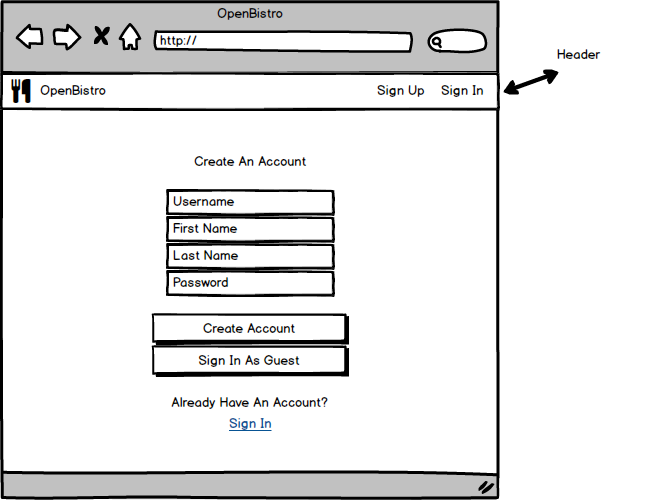
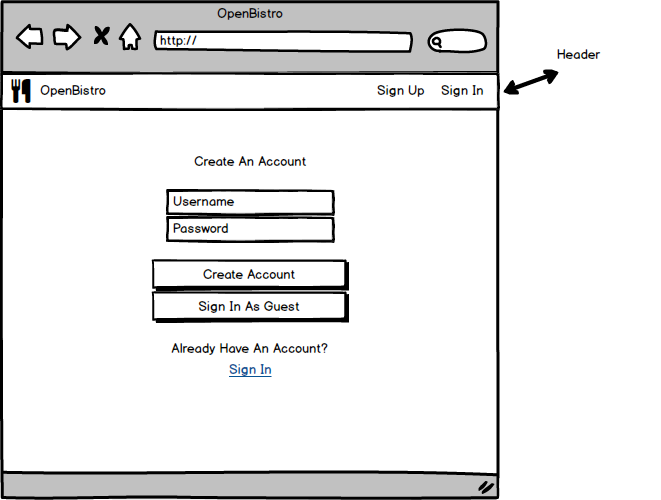
update development docs

Changed region(s): [[0.2118, 0.45, 0.5446, 0.87]]

diff --git a/docs/README.md b/docs/README.md
@@ -5,7 +5,7 @@
 [Trello link][trello]
 
 [heroku]: http://www.herokuapp.com
-[trello]: https://trello.com
+[trello]: https://trello.com/b/ELTsC2u0/openbistro
 
 ## Minimum Viable Product
 
@@ -30,11 +30,11 @@ sufficient CSS styling:
 * [DB schema][schema]
 * [Sample State][sample-state]
 
-[wireframes]: docs/wireframes
-[components]: docs/component-hierarchy.md
-[sample-state]: docs/sample-state.md
-[api-endpoints]: docs/api-endpoints.md
-[schema]: docs/schema.md
+[wireframes]: ../docs/wireframes
+[components]: ../docs/component-hierarchy.md
+[sample-state]: ../docs/sample-state.md
+[api-endpoints]: ../docs/api-endpoints.md
+[schema]: ../docs/schema.md
 
 ## Implementation Timeline
 
@@ -73,11 +73,14 @@ buttons.
 * Add rating and number of reviews to restaurant index page.
 * Add full review details to restaurant details page.
 
-### Phase 6: - Pagination / Infinite scroll for Restaurant Index (1 day)
+### Phase 6: - User Page with Reviews and Reservations (1.5 day)
 
-**Objective:** Add pagination or infinite scroll to restaurant index.
+**Objective:** User has access to a profile page.
+* Profile page contains upcoming reservations.
+* Profile page contains posted reviews.
 
 ### Bonus Features (TBD)
 - [ ] City highlights other than restaurants
+- [ ] Pagination or infinite scroll
 - [ ] Point system for bookings and site usage
 - [ ] Request user for review after reservation date has passed

diff --git a/docs/sample-state.md b/docs/sample-state.md
@@ -36,22 +36,22 @@
       zip_code: "94105",
       description: "Waterbar is a seafood-centric restaurant located on the waterfront with spectacular panoramic views of the bay and city skyline",
       detail_image_urls: []
-    }
-  }
-  reservations: {
-    1: {
-      party_size: 2,
-      time_slot: "2016-11-15 18:00:00"
-      user_id: 1,
-      restaurant_id: 1
-    }
-  },
-  reviews: {
-    1: {
-      rating: 5,
-      body: "Excellent!",
-      user_id: 1,
-      restaurant_id: 1
+      reservations: {
+        1: {
+          party_size: 2,
+          time_slot: "2016-11-15 18:00:00"
+          user_id: 1,
+          restaurant_id: 1
+        }
+      }
+      reviews: {
+        1: {
+          rating: 5,
+          body: "Excellent!",
+          user_id: 1,
+          restaurant_id: 1
+        }
+      }
     }
   }
 }

diff --git a/docs/schema.md b/docs/schema.md
@@ -5,8 +5,6 @@ column name     | data type | details
 ----------------|-----------|-----------------------
 id              | integer   | not null, primary key
 username        | string    | not null, indexed, unique
-fname           | string    | not null
-lname           | string    | not null
 password_digest | string    | not null
 session_token   | string    | not null, indexed, unique
 

diff --git a/docs/component-hierarchy.md b/docs/component-hierarchy.md
@@ -11,6 +11,7 @@
 
 **RestaurantIndexContainer**
 - RestaurantIndex
+  - RestaurantIndexItem
 
 **RestaurantDetailContainer**
 - Reservations
